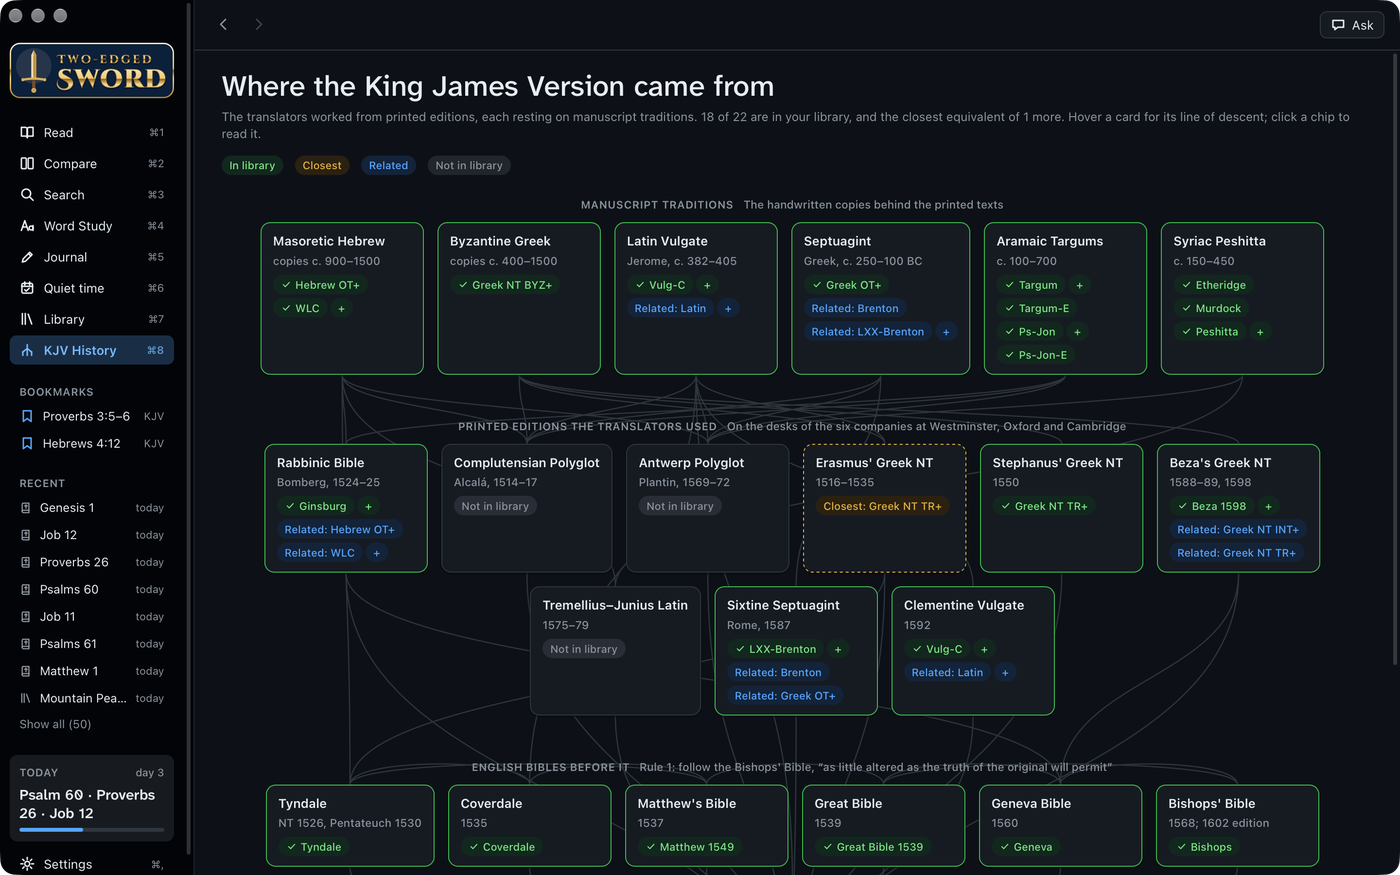
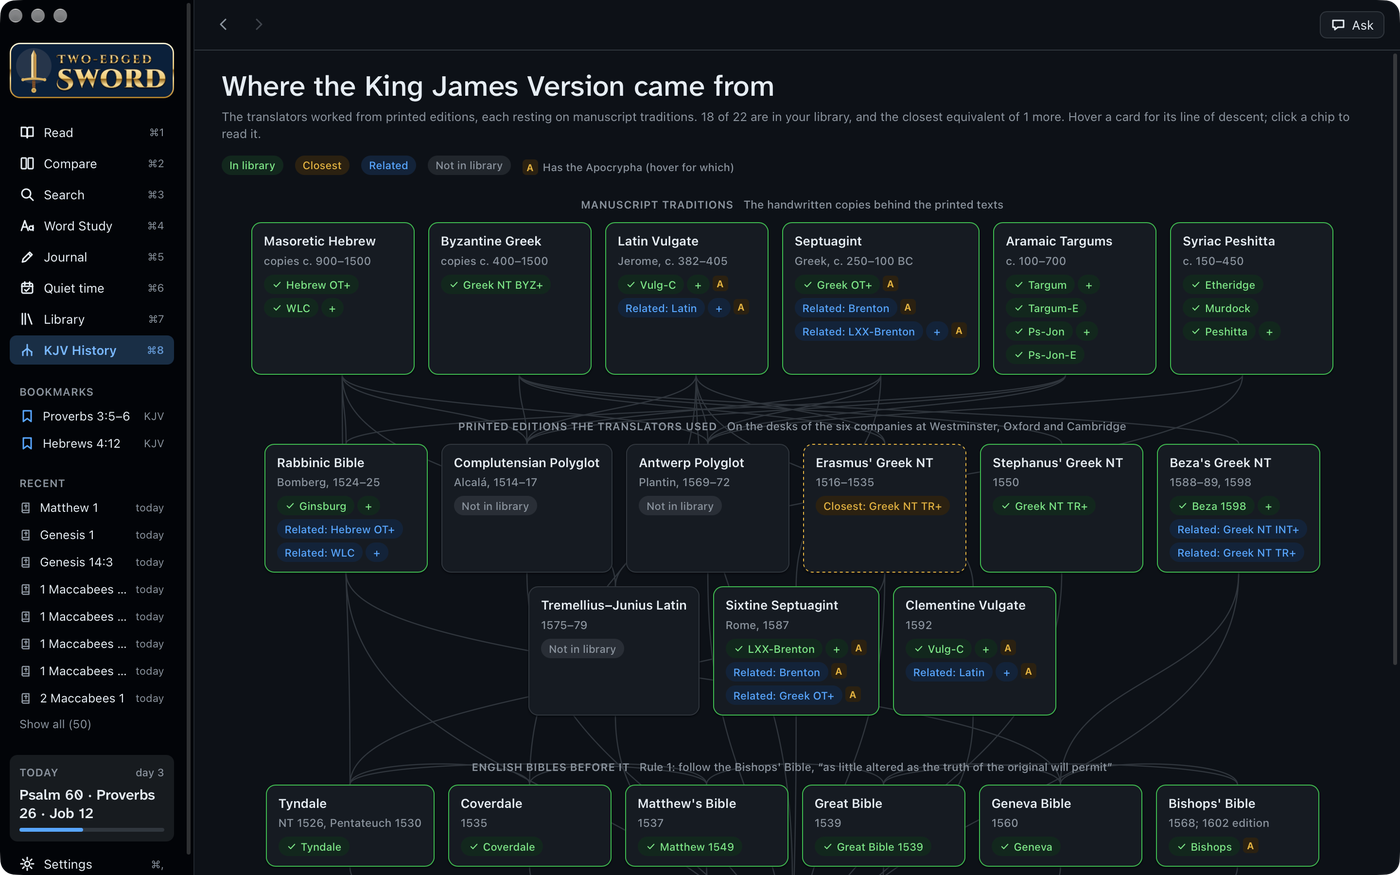
KJV History: a yellow A beside each Bible that has the Apocrypha, its tooltip listing the books and chapters, keyed in the legend

diff --git a/src/KjvHistory.tsx b/src/KjvHistory.tsx
@@ -4,7 +4,8 @@ import { AskPanel } from "./Ask";
 import { Icon } from "./icons";
 import { Topbar } from "./Shell";
 import { useApp } from "./state";
-import { bibleBooks } from "./ui";
+import { APOCRYPHA, BookSizes } from "./bible";
+import { bibleSizes } from "./ui";
 
 /** Where the King James Version came from: the manuscript traditions, the printed editions the
  * translators worked from (1604–1611), the English Bibles before it, and which of them, or what
@@ -90,6 +91,17 @@ function pairs<T extends { m: ModuleInfo }>(xs: T[]): T[][] {
 interface Coverage { ot: boolean; nt: boolean }
 const coverageOf = (books: Set<number>): Coverage => ({ ot: [...books].some((b) => b <= 39), nt: [...books].some((b) => b >= 40 && b <= 66) });
 
+/** The apocryphal books and chapters a Bible has: "Tobit", …, "Additions to Esther (11–16)", "Susanna". */
+function apocryphaIn(sz: BookSizes): string[] {
+  const out = APOCRYPHA.filter((b) => sz.has(b.n)).map((b) => b.name);
+  const est = sz.get(17) ?? 0, dan = sz.get(27) ?? 0;
+  if (est > 10) out.push(`Additions to Esther (${est > 11 ? `11–${est}` : "11"})`);
+  if (dan >= 13) out.push("Susanna (Daniel 13)");
+  if (dan >= 14) out.push("Bel and the Dragon (Daniel 14)");
+  if ((sz.get(19) ?? 0) > 150) out.push("Psalm 151");
+  return out;
+}
+
 /** "OT", "NT" or "OT & NT", for a chip's tooltip. */
 function coverageText(c: Coverage): string {
   return c.ot && c.nt ? "OT & NT" : c.ot ? "OT" : c.nt ? "NT" : "";
@@ -160,9 +172,15 @@ export function KjvHistoryScreen() {
   const open = (m: ModuleInfo) => { app.set({ bible: m.id }); app.go("read"); };
   // Which parts of the Bible each module covers, for the bars on the chips.
   const [cov, setCov] = useState<Record<string, Coverage>>({});
+  // And what of the Apocrypha each has, for the yellow A beside it.
+  const [apo, setApo] = useState<Record<string, string[]>>({});
   useEffect(() => {
     let live = true;
-    Promise.all(bibles.map((b) => bibleBooks(b.id).then((books) => [b.id, coverageOf(books)] as const))).then((r) => { if (live) setCov(Object.fromEntries(r)); });
+    Promise.all(bibles.map((b) => bibleSizes(b.id).then((sz) => [b.id, sz] as const))).then((r) => {
+      if (!live) return;
+      setCov(Object.fromEntries(r.map(([id, sz]) => [id, coverageOf(new Set(sz.keys()))])));
+      setApo(Object.fromEntries(r.map(([id, sz]) => [id, apocryphaIn(sz)]).filter(([, l]) => l.length)));
+    });
     return () => { live = false; };
   }, [bibles]);
   // Not when the name already says: "Westminster Leningrad Codex (Hebrew OT)", "Rheims New Testament (1582)".
@@ -182,7 +200,7 @@ export function KjvHistoryScreen() {
         {/* One resource to a line, but a Bible and its + edition (WLC, WLC+) side by side. */}
         <div style={{ display: "flex", flexDirection: "column", gap: 2 }}>
           {pairs([...have.map((m) => ({ m, kind: "have" as const })), ...near.map((m, i) => ({ m, kind: !have.length && i === 0 ? "closest" as const : "rel" as const }))]).map((row) => (
-            <div key={row[0].m.id} style={{ display: "flex", gap: 3 }}>
+            <div key={row[0].m.id} style={{ display: "flex", gap: 3, alignItems: "center" }}>
               {row.map(({ m, kind }, i) => {
                 // Beside its plain edition, a + edition is just "+" (its name is in the tooltip).
                 const label = i > 0 ? "+" : m.abbrev;
@@ -191,6 +209,7 @@ export function KjvHistoryScreen() {
                   // The closest stands in for a text the library lacks; the rest are related.
                   : <button key={m.id} type="button" className={`ks-chip ${kind === "closest" ? "ks-chip-near" : "ks-chip-rel"}`} title={`${kind === "closest" ? "Closest" : "Related"}: ${m.title}${covTip(m)}`} onClick={() => open(m)}>{i === 0 ? (kind === "closest" ? "Closest: " : "Related: ") : ""}{label}</button>;
               })}
+              {apo[row[0].m.id] && <span className="ks-apo" title={`Apocrypha in ${row[0].m.abbrev}: ${apo[row[0].m.id].join(", ")}`}>A</span>}
             </div>
           ))}
           {!have.length && !near.length && <span className="ks-chip">Not in library</span>}
@@ -215,6 +234,7 @@ export function KjvHistoryScreen() {
             <span className="ks-chip ks-chip-near" style={{ cursor: "default" }}>Closest</span>
             <span className="ks-chip ks-chip-rel" style={{ cursor: "default" }}>Related</span>
             <span className="ks-chip" style={{ cursor: "default" }}>Not in library</span>
+            <span style={{ display: "inline-flex", alignItems: "center", gap: 5 }}><span className="ks-apo" style={{ cursor: "default" }}>A</span><span className="n">Has the Apocrypha (hover for which)</span></span>
           </div>
           <div ref={box} style={{ position: "relative", padding: "22px 24px 40px", display: "flex", flexDirection: "column", gap: 44 }}>
             <svg style={{ position: "absolute", inset: 0, width: "100%", height: "100%", pointerEvents: "none", overflow: "visible" }}>

diff --git a/src/styles.css b/src/styles.css
@@ -341,3 +341,5 @@ mark { background: var(--hl-gold); color: inherit; border-radius: 3px; padding: 
 /* The chapter's name stays put at the top of the reading column as it scrolls (Read.tsx). */
 .readcol .readhead { position: sticky; top: 0; z-index: 15; background: var(--bg); }
 .readcol [data-v] { scroll-margin-top: 80px; }
+/* KJV History: a Bible that has the Apocrypha (tooltip: which books). */
+.ks-apo { display: inline-flex; align-items: center; justify-content: center; width: 16px; height: 16px; border-radius: 4px; background: var(--pubg); color: var(--pufg); font: 700 10px/1 var(--ui); cursor: help; flex: none; }

diff --git a/docs/manuscripts.md b/docs/manuscripts.md
@@ -66,7 +66,8 @@ verse numbers on the right.
 printed editions the translators worked from (1604–1611), and the English Bibles before it.
 Each card's chips show what you have: green is the text itself, amber the closest stand-in, blue
 a related module. Click one to read it; its tooltip says whether it has the Old Testament, the New
-or both. Hover a card to light up what it came from and what came
+or both. A yellow **A** beside a chip means that Bible has the Apocrypha; hover it for which books
+and chapters. Hover a card to light up what it came from and what came
 from it.
 
 **Ask** opens a panel beside the tree. The history, and which sources are in your library, goes
